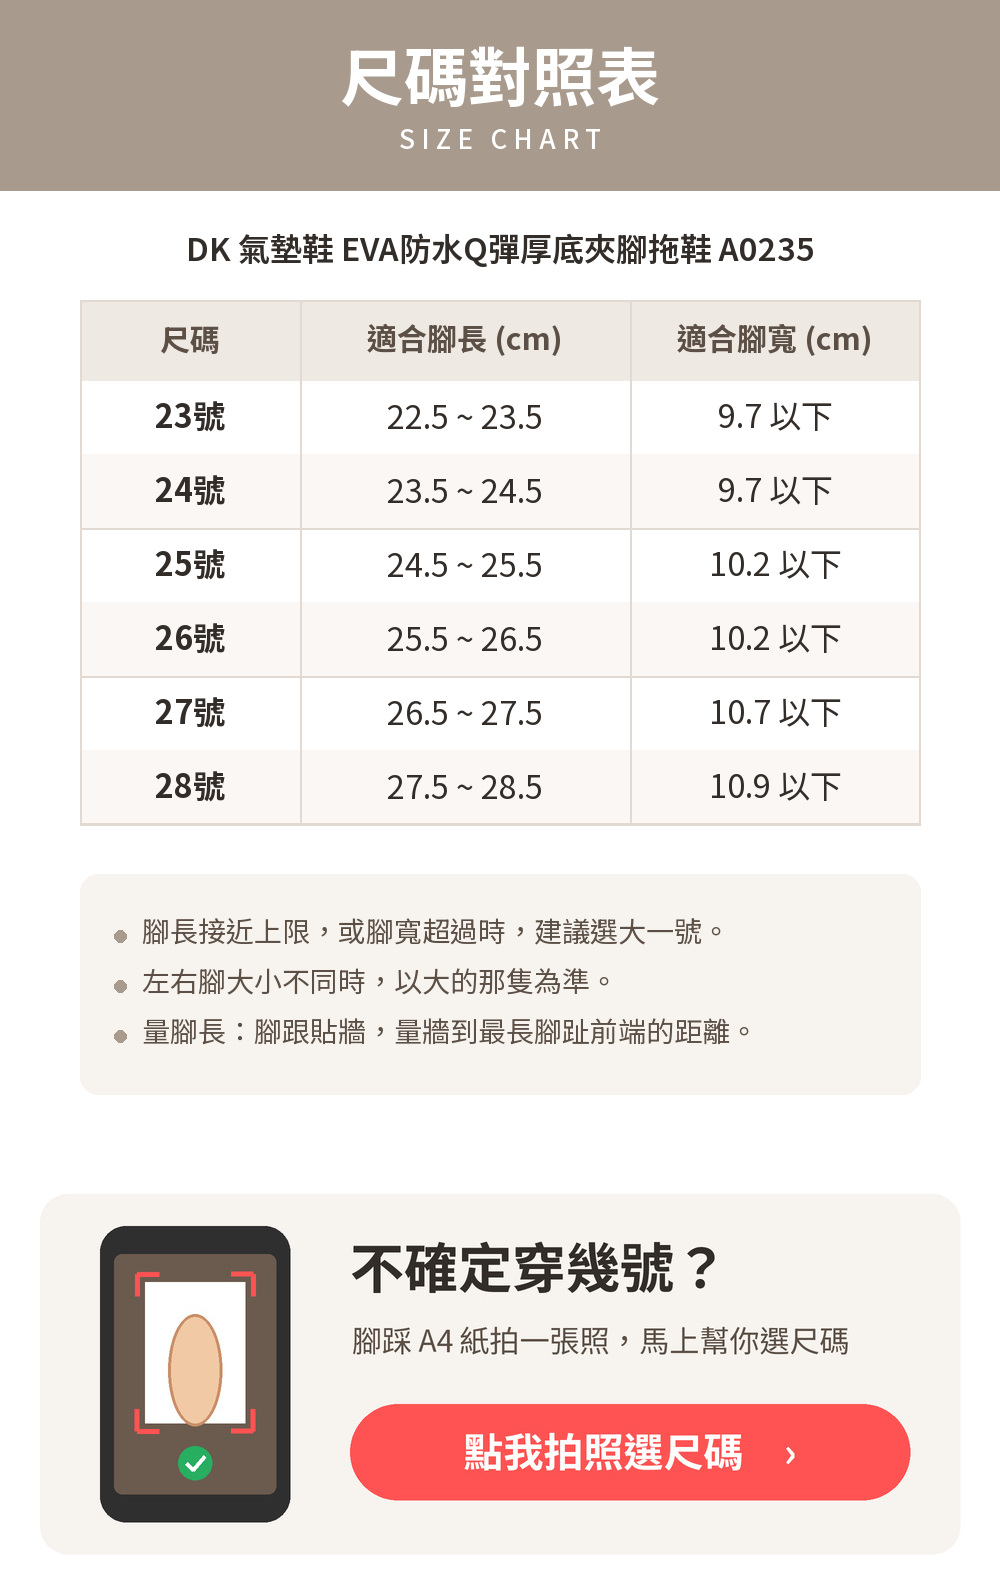
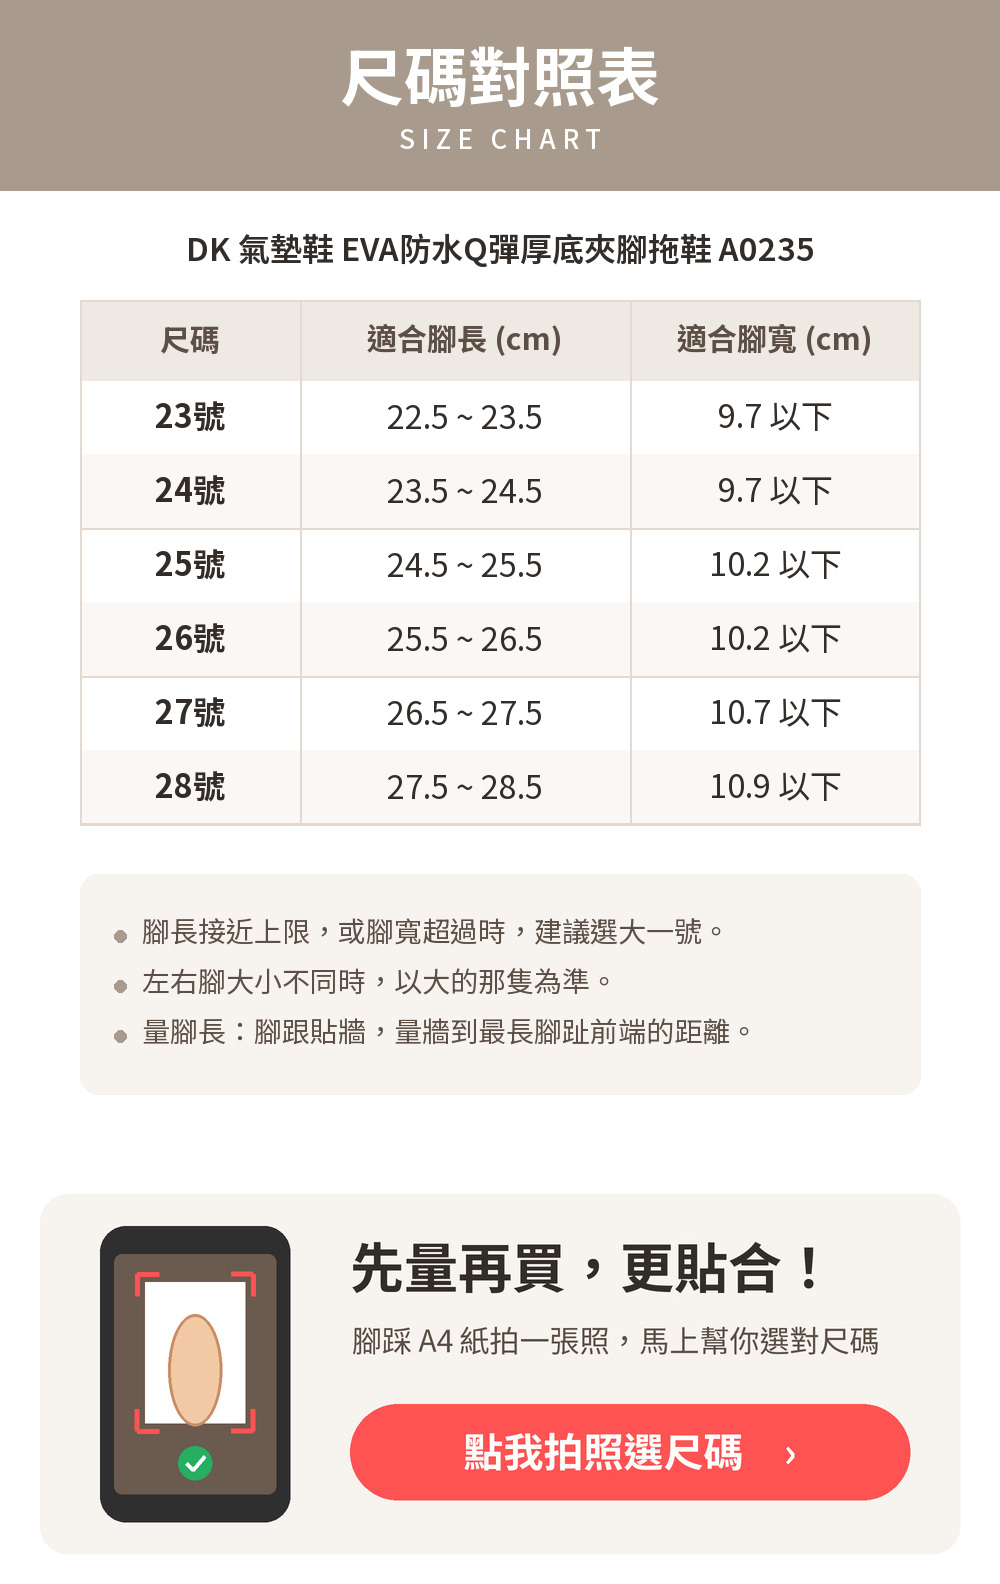
feat: 拍照選尺碼按鈕文案改為「先量再買，更貼合！」並重出合成圖

Changed region(s): [[0.341, 0.7734, 0.775, 0.8352], [0.775, 0.8352, 0.899, 0.8662], [0.806, 0.7734, 0.837, 0.8043]]

diff --git a/tools/make_cta_banner.py b/tools/make_cta_banner.py
@@ -59,8 +59,8 @@ def build():
     d.line(S(193, 306, 205, 292), fill=WHITE, width=4 * scale)
 
     # 文字與按鈕
-    d.text(S(350, 70), "不確定穿幾號？", font=font(54 * scale, 700), fill=INK)
-    d.text(S(352, 158), "腳踩 A4 紙拍一張照，馬上幫你選尺碼", font=font(30 * scale, 400), fill=SUB)
+    d.text(S(350, 70), "先量再買，更貼合！", font=font(54 * scale, 700), fill=INK)
+    d.text(S(352, 158), "腳踩 A4 紙拍一張照，馬上幫你選對尺碼", font=font(30 * scale, 400), fill=SUB)
     d.rounded_rectangle(S(350, 240, 910, 336), radius=48 * scale, fill=BRAND)
     text_center(d, S(350, 240, 910, 336), "點我拍照選尺碼　›", font(40 * scale, 700), WHITE)
 
